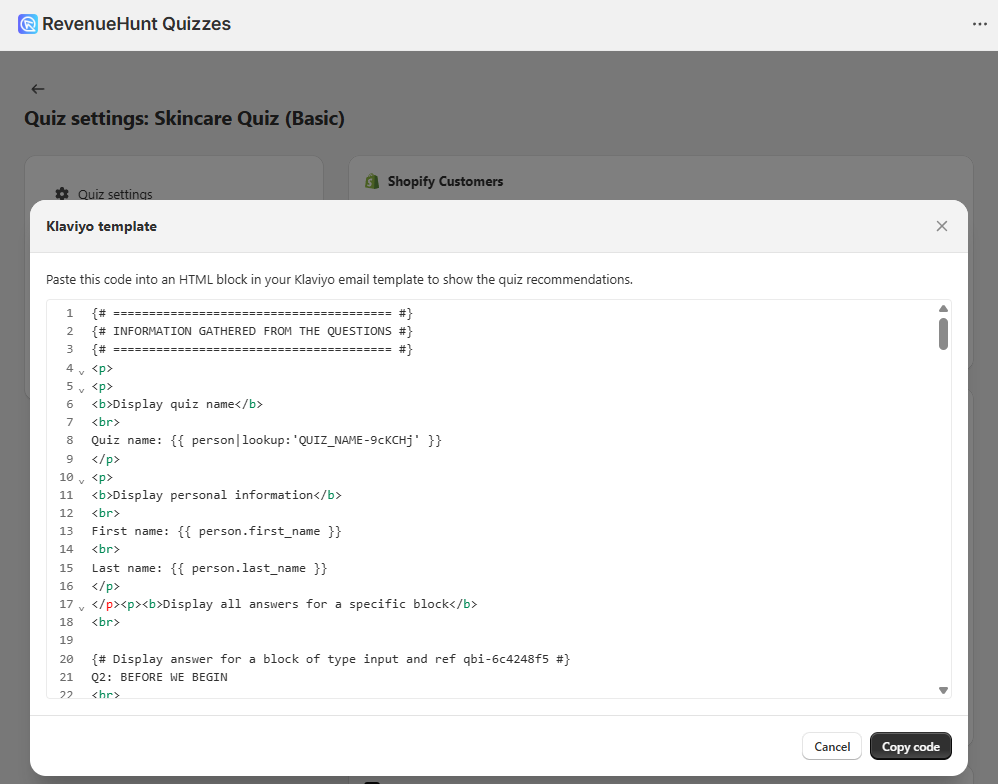
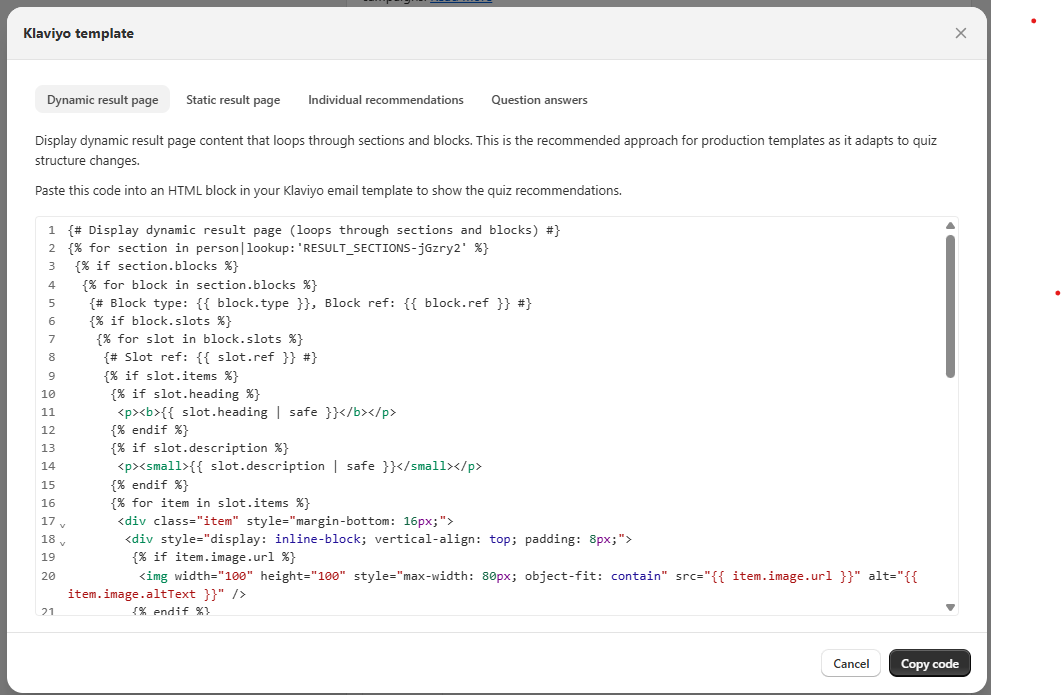
docs: update Klaviyo lead sending guide with enhanced content descriptions and add image for email template reference

diff --git a/docs/tutorials/follow-up-emails-klaviyo.md b/docs/tutorials/follow-up-emails-klaviyo.md
@@ -647,12 +647,16 @@ icon: material/numeric-6
         
         !!! info "Klaviyo Template"
 
+            ![how to send leads to klaviyo email tempalte download1](/images/how_to_shopifyv2_klaviyo_shopify_v2_copy_template.png)
+
             The code contains several ready-to-use code snippets that allow you to display: 
 
-            - Quiz question answers (section `{# REFERENCE: INFORMATION GATHERED FROM THE QUESTIONS #}`)
-            - Recommended products (section `{# REFERENCE: INDIVIDUAL ITEM RECOMMENDATIONS BY SLOT #}`)
-            - A Static Results Page content that contains all the elements of your results page and adds content upon each quiz retake (section `{# REFERENCE: INDIVIDUAL ITEM RECOMMENDATIONS BY SLOT #}`)
-            - A Dynamic Results Page content that contains all the elements of your results page and replaces content upon each quiz retake (section `{# RECOMMENDED: DYNAMIC RESULT PAGE CONTENT (LOOPS THROUGH RESULT_SECTIONS-jGzry2) #}`) **👈 this section is the recommended one to use**
+            - **Dynamic Results Page**: Display dynamic result page content that loops through sections and blocks. A Dynamic Results Page content that contains all the elements of your results page and replaces content upon each quiz retake. This is the recommended approach for production templates as it adapts to quiz structure changes.
+            - **Static Results Page**: Display the complete result page content using static lookups. Static Results Page content that contains all the elements of your results page and adds content upon each quiz retake. Use this approach for understanding the data structure and for simple implementations.
+            - **Individual recommendations**: Display individual product recommendations by slot. Use this to show specific recommended items with their details like title, description, price, and images.
+            - **Question answers**: Display quiz information and individual question answers. Use this to show personal data and specific responses from quiz questions.
+        
+
 
     8. Paste the code in the `HTML` block in Klaviyo email.
     9. Next, `Preview` the email as one of your segment subscribers to check what information is displayed.

diff --git a/docs/how-to-guides/send-leads-to-klaviyo.md b/docs/how-to-guides/send-leads-to-klaviyo.md
@@ -303,10 +303,10 @@ Below you’ll find some basic instructions that can be forwarded to a developer
 
                 The code contains several ready-to-use code snippets that allow you to display: 
 
-                - Quiz question answers (section `{# REFERENCE: INFORMATION GATHERED FROM THE QUESTIONS #}`)
-                - Recommended products (section `{# REFERENCE: INDIVIDUAL ITEM RECOMMENDATIONS BY SLOT #}`)
-                - A Static Results Page content that contains all the elements of your results page and adds content upon each quiz retake (section `{# REFERENCE: INDIVIDUAL ITEM RECOMMENDATIONS BY SLOT #}`)
-                - A Dynamic Results Page content that contains all the elements of your results page and replaces content upon each quiz retake (section `{# RECOMMENDED: DYNAMIC RESULT PAGE CONTENT (LOOPS THROUGH RESULT_SECTIONS-jGzry2) #}`) **👈 this section is the recommended one to use**
+                - **Dynamic Results Page**: Display dynamic result page content that loops through sections and blocks. A Dynamic Results Page content that contains all the elements of your results page and replaces content upon each quiz retake. This is the recommended approach for production templates as it adapts to quiz structure changes.
+                - **Static Results Page**: Display the complete result page content using static lookups. Static Results Page content that contains all the elements of your results page and adds content upon each quiz retake. Use this approach for understanding the data structure and for simple implementations.
+                - **Individual recommendations**: Display individual product recommendations by slot. Use this to show specific recommended items with their details like title, description, price, and images.
+                - **Question answers**: Display quiz information and individual question answers. Use this to show personal data and specific responses from quiz questions.
 
         8. Paste the code in the `HTML` block in Klaviyo email.
 
